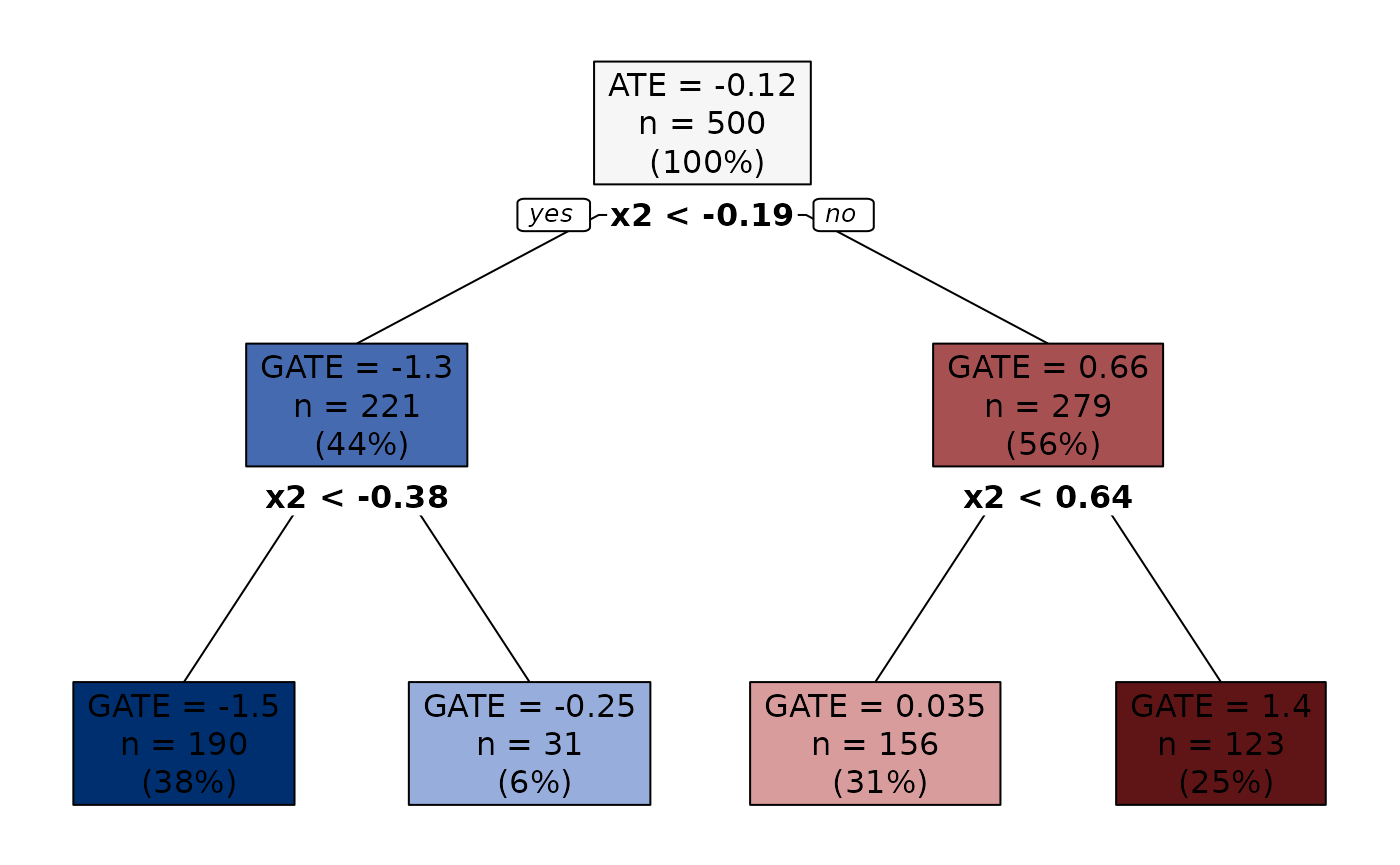
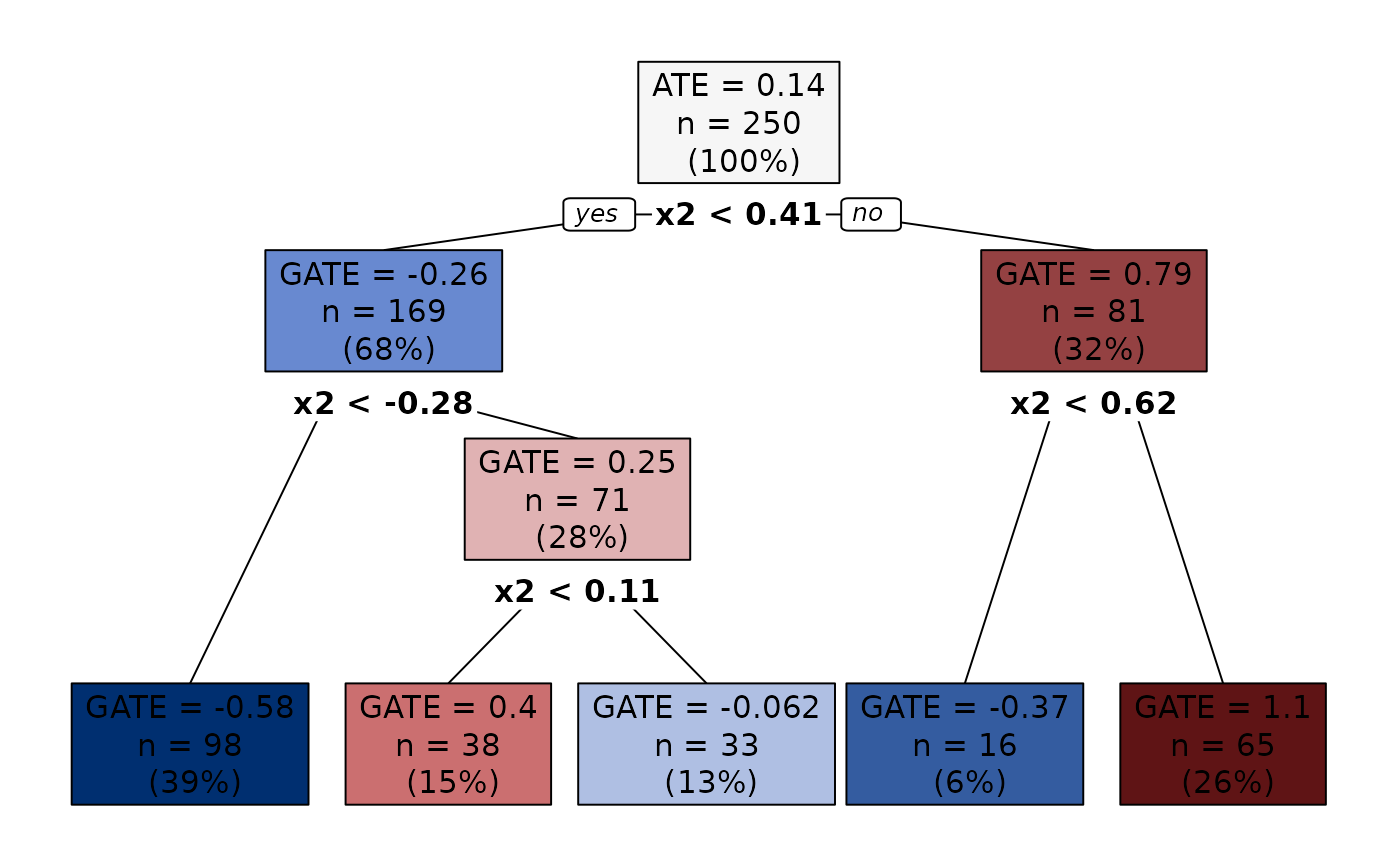
Deploying to gh-pages from @ riccardo-df/aggTrees@62b1ca5f76cee882d2c95f89c635c2ef28954551 🚀

diff --git a/articles/aggTrees-vignette.html b/articles/aggTrees-vignette.html
@@ -122,7 +122,7 @@ GATEs later on.</p>
 <code class="sourceCode R"><span><span class="co">## Generate data.</span></span>
 <span><span class="fu"><a href="https://rdrr.io/r/base/Random.html" class="external-link">set.seed</a></span><span class="op">(</span><span class="fl">1986</span><span class="op">)</span></span>
 <span></span>
-<span><span class="va">n</span> <span class="op">&lt;-</span> <span class="fl">1000</span></span>
+<span><span class="va">n</span> <span class="op">&lt;-</span> <span class="fl">500</span> <span class="co"># Small sample size due to compliance with CRAN notes.</span></span>
 <span><span class="va">k</span> <span class="op">&lt;-</span> <span class="fl">3</span></span>
 <span></span>
 <span><span class="va">X</span> <span class="op">&lt;-</span> <span class="fu"><a href="https://rdrr.io/r/base/matrix.html" class="external-link">matrix</a></span><span class="op">(</span><span class="fu"><a href="https://rdrr.io/r/stats/Normal.html" class="external-link">rnorm</a></span><span class="op">(</span><span class="va">n</span> <span class="op">*</span> <span class="va">k</span><span class="op">)</span>, ncol <span class="op">=</span> <span class="va">k</span><span class="op">)</span></span>
@@ -188,18 +188,20 @@ cross-fitting and only observations from the honest sample.</p>
 <span><span class="co">## Print.</span></span>
 <span><span class="fu"><a href="https://rdrr.io/r/base/print.html" class="external-link">print</a></span><span class="op">(</span><span class="va">groupings</span><span class="op">)</span></span>
 <span><span class="co">#&gt; Honest estimates: TRUE </span></span>
-<span><span class="co">#&gt; n= 500 </span></span>
+<span><span class="co">#&gt; n= 250 </span></span>
 <span><span class="co">#&gt; </span></span>
 <span><span class="co">#&gt; node), split, n, deviance, yval</span></span>
 <span><span class="co">#&gt;       * denotes terminal node</span></span>
 <span><span class="co">#&gt; </span></span>
-<span><span class="co">#&gt; 1) root 500 320.032300 -0.11721830  </span></span>
-<span><span class="co">#&gt;   2) x2&lt; -0.1879849 221  13.480400 -1.30887600  </span></span>
-<span><span class="co">#&gt;     4) x2&lt; -0.383392 190   4.825523 -1.45566100 *</span></span>
-<span><span class="co">#&gt;     5) x2&gt;=-0.383392 31   1.289170 -0.25079680 *</span></span>
-<span><span class="co">#&gt;   3) x2&gt;=-0.1879849 279  67.122020  0.65755560  </span></span>
-<span><span class="co">#&gt;     6) x2&lt; 0.6427372 156   4.340434  0.03480117 *</span></span>
-<span><span class="co">#&gt;     7) x2&gt;=0.6427372 123   4.449509  1.44297000 *</span></span>
+<span><span class="co">#&gt;  1) root 250 123.9466000  0.13700170  </span></span>
+<span><span class="co">#&gt;    2) x2&lt; 0.4110066 169  17.4697700 -0.26060540  </span></span>
+<span><span class="co">#&gt;      4) x2&lt; -0.2808111 98   1.5706020 -0.58001140 *</span></span>
+<span><span class="co">#&gt;      5) x2&gt;=-0.2808111 71   2.2189360  0.24512080  </span></span>
+<span><span class="co">#&gt;       10) x2&lt; 0.1101004 38   0.3944950  0.39862120 *</span></span>
+<span><span class="co">#&gt;       11) x2&gt;=0.1101004 33   0.3364562 -0.06187981 *</span></span>
+<span><span class="co">#&gt;    3) x2&gt;=0.4110066 81   2.1095900  0.78572910  </span></span>
+<span><span class="co">#&gt;      6) x2&lt; 0.6244741 16   0.2477193 -0.36697840 *</span></span>
+<span><span class="co">#&gt;      7) x2&gt;=0.6244741 65   0.2205796  1.11284900 *</span></span>
 <span></span>
 <span><span class="co">## Plot.</span></span>
 <span><span class="fu"><a href="https://rdrr.io/r/graphics/plot.default.html" class="external-link">plot</a></span><span class="op">(</span><span class="va">groupings</span><span class="op">)</span> <span class="co"># Try also setting 'sequence = TRUE'.</span></span></code></pre></div>
@@ -247,8 +249,8 @@ group.</li>
 <span><span class="co">#&gt;       \addlinespace[2pt]</span></span>
 <span><span class="co">#&gt;       \hline \\[-1.8ex] </span></span>
 <span><span class="co">#&gt; </span></span>
-<span><span class="co">#&gt;       \multirow{3}{*}{GATEs} &amp; -1.456 &amp; -0.251 &amp;  0.035 &amp;  1.443 \\</span></span>
-<span><span class="co">#&gt;       &amp; [-1.783, -1.129] &amp; [-1.013,  0.511] &amp; [-0.271,  0.341] &amp; [ 1.084,  1.802] \\</span></span>
+<span><span class="co">#&gt;       \multirow{3}{*}{GATEs} &amp; -0.580 &amp; -0.367 &amp;  0.245 &amp;  1.113 \\</span></span>
+<span><span class="co">#&gt;       &amp; [-1.017, -0.143] &amp; [-1.396,  0.662] &amp; [-0.298,  0.788] &amp; [ 0.633,  1.593] \\</span></span>
 <span><span class="co">#&gt;       &amp; \{NA, NA\} &amp; \{NA, NA\} &amp; \{NA, NA\} &amp; \{NA, NA\} \\ </span></span>
 <span><span class="co">#&gt; </span></span>
 <span><span class="co">#&gt;       \addlinespace[2pt]</span></span>
@@ -256,12 +258,12 @@ group.</li>
 <span><span class="co">#&gt; </span></span>
 <span><span class="co">#&gt;       \textit{Leaf 1} &amp; NA &amp; NA &amp; NA &amp; NA \\</span></span>
 <span><span class="co">#&gt;             &amp; (NA) &amp; (NA) &amp; (NA) &amp; (NA) \\ </span></span>
-<span><span class="co">#&gt;       \textit{Leaf 2} &amp; 1.20 &amp;   NA &amp;   NA &amp; NA \\</span></span>
-<span><span class="co">#&gt;             &amp; (0.009) &amp; (   NA) &amp; (   NA) &amp; (NA) \\ </span></span>
-<span><span class="co">#&gt;       \textit{Leaf 3} &amp; 1.49 &amp; 0.29 &amp;   NA &amp; NA \\</span></span>
-<span><span class="co">#&gt;             &amp; (0.000) &amp; (0.496) &amp; (   NA) &amp; (NA) \\ </span></span>
-<span><span class="co">#&gt;       \textit{Leaf 4} &amp; 2.90 &amp; 1.69 &amp; 1.41 &amp; NA \\</span></span>
-<span><span class="co">#&gt;             &amp; (0.000) &amp; (0.000) &amp; (0.000) &amp; (NA) \\ </span></span>
+<span><span class="co">#&gt;       \textit{Leaf 2} &amp; 0.21 &amp;   NA &amp;   NA &amp; NA \\</span></span>
+<span><span class="co">#&gt;             &amp; (0.709) &amp; (   NA) &amp; (   NA) &amp; (NA) \\ </span></span>
+<span><span class="co">#&gt;       \textit{Leaf 3} &amp; 0.83 &amp; 0.61 &amp;   NA &amp; NA \\</span></span>
+<span><span class="co">#&gt;             &amp; (0.079) &amp; (0.607) &amp; (   NA) &amp; (NA) \\ </span></span>
+<span><span class="co">#&gt;       \textit{Leaf 4} &amp; 1.69 &amp; 1.48 &amp; 0.87 &amp; NA \\</span></span>
+<span><span class="co">#&gt;             &amp; (0.000) &amp; (0.056) &amp; (0.079) &amp; (NA) \\ </span></span>
 <span><span class="co">#&gt; </span></span>
 <span><span class="co">#&gt;       \addlinespace[3pt]</span></span>
 <span><span class="co">#&gt;       \\[-1.8ex]\hline</span></span>
@@ -288,9 +290,9 @@ group.</li>
 <span><span class="co">#&gt;       \addlinespace[2pt]</span></span>
 <span><span class="co">#&gt;       \hline \\[-1.8ex] </span></span>
 <span><span class="co">#&gt; </span></span>
-<span><span class="co">#&gt;       \texttt{x1} &amp; -0.018 &amp; (0.073) &amp; -0.041 &amp; (0.188) &amp; -0.003 &amp; (0.079) &amp; -0.023 &amp; (0.082) \\ </span></span>
-<span><span class="co">#&gt;       \texttt{x2} &amp; -1.056 &amp; (0.044) &amp; -0.299 &amp; (0.012) &amp;  0.200 &amp; (0.018) &amp;  1.272 &amp; (0.045) \\ </span></span>
-<span><span class="co">#&gt;       \texttt{x3} &amp;  0.043 &amp; (0.075) &amp; -0.136 &amp; (0.198) &amp; -0.143 &amp; (0.077) &amp;  0.029 &amp; (0.088) \\ </span></span>
+<span><span class="co">#&gt;       \texttt{x1} &amp;  0.125 &amp; (0.097) &amp; -0.030 &amp; (0.202) &amp; -0.089 &amp; (0.148) &amp;  0.083 &amp; (0.106) \\ </span></span>
+<span><span class="co">#&gt;       \texttt{x2} &amp; -0.941 &amp; (0.057) &amp;  0.505 &amp; (0.012) &amp;  0.020 &amp; (0.026) &amp;  1.222 &amp; (0.050) \\ </span></span>
+<span><span class="co">#&gt;       \texttt{x3} &amp;  0.088 &amp; (0.109) &amp; -0.542 &amp; (0.197) &amp;  0.316 &amp; (0.141) &amp; -0.036 &amp; (0.107) \\ </span></span>
 <span><span class="co">#&gt; </span></span>
 <span><span class="co">#&gt;       \addlinespace[3pt]</span></span>
 <span><span class="co">#&gt;       \\[-1.8ex]\hline</span></span>

diff --git a/reference/causal_ols_rpart.html b/reference/causal_ols_rpart.html
@@ -160,7 +160,7 @@ using Holm's procedure.</p>
 <h3 id="caution-on-inference">Caution on Inference<a class="anchor" aria-label="anchor" href="#caution-on-inference"></a></h3>
 
 
-<p>"honesty" is a necessary requirement to get valid inference. Thus, observations in <code>y</code>, <code>D</code>, and
+<p>"honesty" is a necessary requirement to get valid inference. Thus, observations in <code>Y</code>, <code>D</code>, and
 <code>X</code> must not have been used to construct the <code>tree</code> and the <code>scores</code>.<br></p>
 </div>
 
